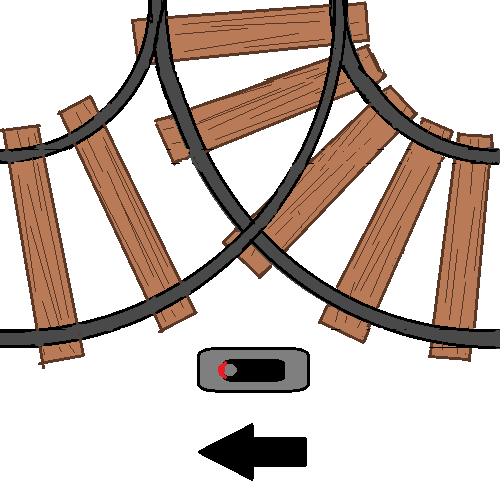
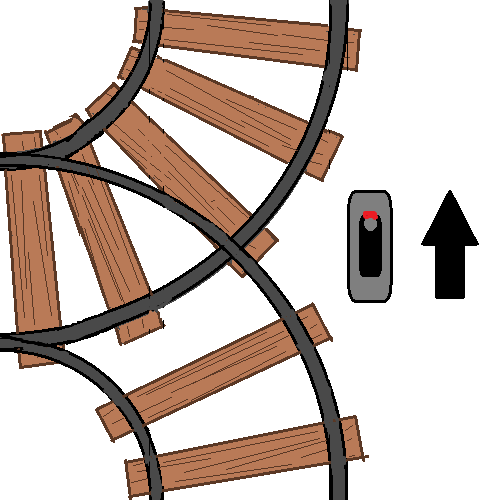
maps, drawing

diff --git a/src/projlab/rail/ui/ResourceManager.java b/src/projlab/rail/ui/ResourceManager.java
@@ -12,16 +12,37 @@ import static projlab.rail.ui.Direction.*;
 
 public class ResourceManager {
 
+    private static final BufferedImage[] MAPS = new BufferedImage[5];
+
     private static final BufferedImage RAIL_STRAIGHT_VERT;
     private static final BufferedImage RAIL_STRAIGHT_HORI;
     private static final BufferedImage[] RAIL_CURVES = new BufferedImage[4];
+    private static final BufferedImage CROSS_RAIL;
+    private static final BufferedImage[] SWITCH_AS = new BufferedImage[4];
+    private static final BufferedImage[] SWITCH_BS = new BufferedImage[4];
 
     static {
+        for (int i = 0; i < 5; i++) {
+            MAPS[i] = read("/map/" + (i + 1) + ".png");
+        }
+
         RAIL_STRAIGHT_HORI = read("/rail_straight.png");
         RAIL_STRAIGHT_VERT = rotate(RAIL_STRAIGHT_HORI, 1);
+
         RAIL_CURVES[0] = read("/rail_curve.png");
         for (int i = 1; i < 4; i++) {
             RAIL_CURVES[i] = rotate(RAIL_CURVES[0], i);
+        }
+        CROSS_RAIL = read("/crossrail.png");
+
+        SWITCH_AS[0] = read("/switch_a.png");
+        for (int i = 1; i < 4; i++) {
+            SWITCH_AS[i] = rotate(SWITCH_AS[0], i);
+        }
+
+        SWITCH_BS[0] = read("/switch_b.png");
+        for (int i = 1; i < 4; i++) {
+            SWITCH_BS[i] = rotate(SWITCH_BS[0], i);
         }
     }
 
@@ -52,6 +73,10 @@ public class ResourceManager {
         return newImage;
     }
 
+    public static BufferedImage getMap(int map) {
+        return MAPS[map];
+    }
+
     public static BufferedImage getRail(Direction aDir, Direction bDir) {
         if (aDir.value > bDir.value) {
             Direction temp = aDir;
@@ -68,8 +93,13 @@ public class ResourceManager {
         }
     }
 
-    public static BufferedImage getSwitch(Direction inDir, Direction aDir, Direction bDir, boolean isAActive) {
-        return null;
+    public static BufferedImage getCrossRail() {
+        return CROSS_RAIL;
+    }
+
+    public static BufferedImage getSwitch(Direction inDir, boolean isAActive) {
+        int val = inDir.value;
+        return isAActive ? SWITCH_AS[val] : SWITCH_BS[val];
     }
 
     public static BufferedImage getStation(Direction aDir, Direction bDir, Color color) {

diff --git a/src/projlab/rail/ui/MainWindow.java b/src/projlab/rail/ui/MainWindow.java
@@ -1,21 +1,50 @@
 package projlab.rail.ui;
 
+import projlab.rail.logic.CrossRail;
 import projlab.rail.logic.Rail;
+import projlab.rail.logic.Switch;
 
 import javax.swing.*;
 import java.awt.*;
+import java.awt.image.BufferedImage;
 
 public class MainWindow extends JFrame {
 
-    public MainWindow() {
+    private static final int WINDOW_SIZE = 1000;
+
+    private final GraphicsEngine graphicsEngine = new GraphicsEngine();
+
+    private static class BackgroundPanel extends JComponent {
+        private BufferedImage backgroundImage;
+
+        private BackgroundPanel(BufferedImage backgroundImage) {
+            this.backgroundImage = backgroundImage;
+            setPreferredSize(new Dimension(WINDOW_SIZE, WINDOW_SIZE));
+            setSize(WINDOW_SIZE, WINDOW_SIZE);
+            setLayout(null);
+        }
+
+        @Override
+        protected void paintComponent(Graphics graphics) {
+            graphics.drawImage(backgroundImage, 0, 0, this);
+        }
+    }
+
+    private MainWindow() {
+        init(0);
+    }
+
+    private void init(int map) {
         setDefaultCloseOperation(EXIT_ON_CLOSE);
-        setSize(500, 500);
+        setSize(WINDOW_SIZE, WINDOW_SIZE);
+        setPreferredSize(new Dimension(WINDOW_SIZE, WINDOW_SIZE));
         setLocationRelativeTo(null);
-        Rail r = new Rail(Direction.EAST, Direction.SOUTH);
-        EntityPanel ep = new EntityPanel(r);
         setLayout(null);
-        ep.update();
-        add(ep);
+        setResizable(false);
+
+        add(new BackgroundPanel(ResourceManager.getMap(map)));
+
+        pack();
         setVisible(true);
     }
 

diff --git a/src/projlab/rail/logic/Switch.java b/src/projlab/rail/logic/Switch.java
@@ -3,6 +3,7 @@ package projlab.rail.logic;
 import projlab.rail.exception.IllegalMoveException;
 import projlab.rail.exception.IllegalSwitchStateException;
 import projlab.rail.ui.Direction;
+import projlab.rail.ui.ResourceManager;
 
 import java.awt.image.BufferedImage;
 import java.util.ArrayList;
@@ -22,13 +23,9 @@ public class Switch extends StaticEntity {
     private final ArrayList<StaticEntity> conns = new ArrayList<>(3);
 
     private final Direction inDir;
-    private final Direction aDir;
-    private final Direction bDir;
 
-    public Switch(Direction inDir, Direction aDir, Direction bDir) {
+    public Switch(Direction inDir) {
         this.inDir = inDir;
-        this.aDir = aDir;
-        this.bDir = bDir;
         for (int i = 0; i < 3; i++) {
             conns.add(null);
         }
@@ -94,7 +91,7 @@ public class Switch extends StaticEntity {
 
     @Override
     public BufferedImage image() {
-        return null;
+        return ResourceManager.getSwitch(inDir, isAActive);
     }
 
     /**

diff --git a/src/projlab/rail/ui/EntityPanel.java b/src/projlab/rail/ui/EntityPanel.java
@@ -16,8 +16,8 @@ public class EntityPanel extends JPanel {
 
     public EntityPanel(StaticEntity entity) {
         this.entity = entity;
-        setSize(200, 200);
-        setPreferredSize(new Dimension(50, 50));
+        setSize(PANEL_SIZE, PANEL_SIZE);
+        setPreferredSize(new Dimension(PANEL_SIZE, PANEL_SIZE));
     }
 
     public void update() {
@@ -26,7 +26,6 @@ public class EntityPanel extends JPanel {
 
     @Override
     protected void paintComponent(Graphics graphics) {
-        super.paintComponent(graphics);
         if (image != null) {
             graphics.drawImage(image.getScaledInstance(PANEL_SIZE, PANEL_SIZE, 0), 0, 0, this);
         }

diff --git a/src/projlab/rail/Proto.java b/src/projlab/rail/Proto.java
@@ -157,7 +157,7 @@ public class Proto {
             case CROSS:
                 return crosses.add(new CrossRail());
             case SWITCH:
-                return switches.add(new Switch(Direction.EAST, Direction.NORTH, Direction.SOUTH));
+                return switches.add(new Switch(Direction.EAST));
             case TUNNEL:
                 return tunnels.add(new Tunnel(Direction.WEST));
             default:

diff --git a/src/projlab/rail/logic/CrossRail.java b/src/projlab/rail/logic/CrossRail.java
@@ -1,6 +1,7 @@
 package projlab.rail.logic;
 
 import projlab.rail.exception.IllegalMoveException;
+import projlab.rail.ui.ResourceManager;
 
 import java.awt.image.BufferedImage;
 import java.util.ArrayList;
@@ -87,6 +88,6 @@ public class CrossRail extends StaticEntity {
 
     @Override
     public BufferedImage image() {
-        return null;
+        return ResourceManager.getCrossRail();
     }
 }
